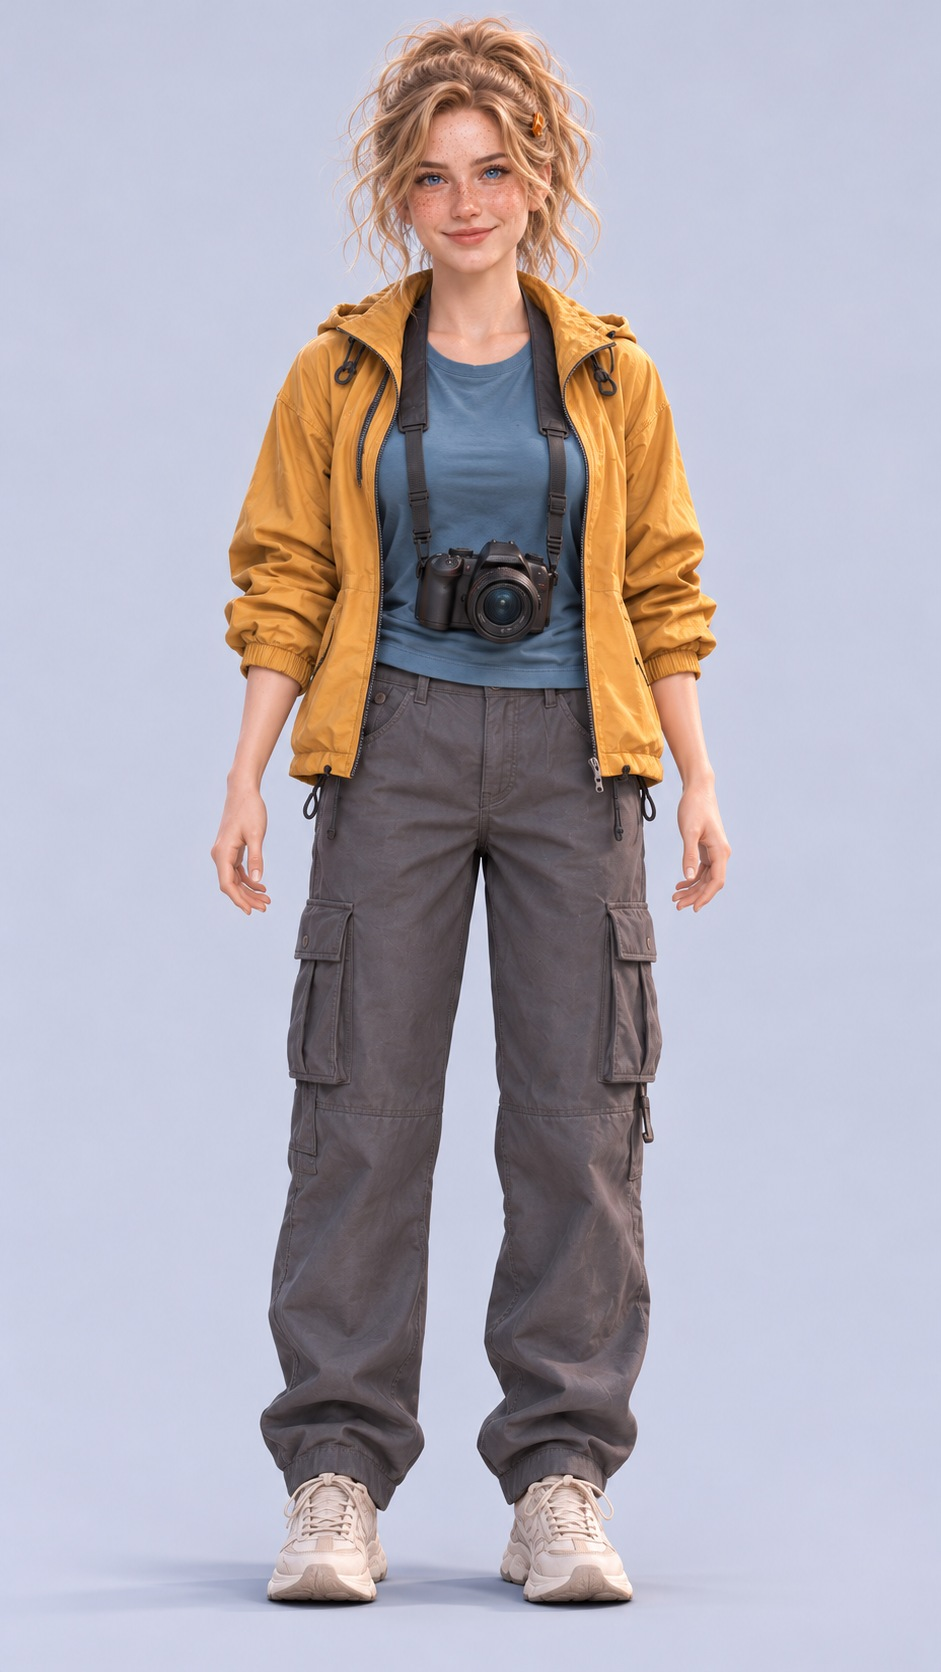
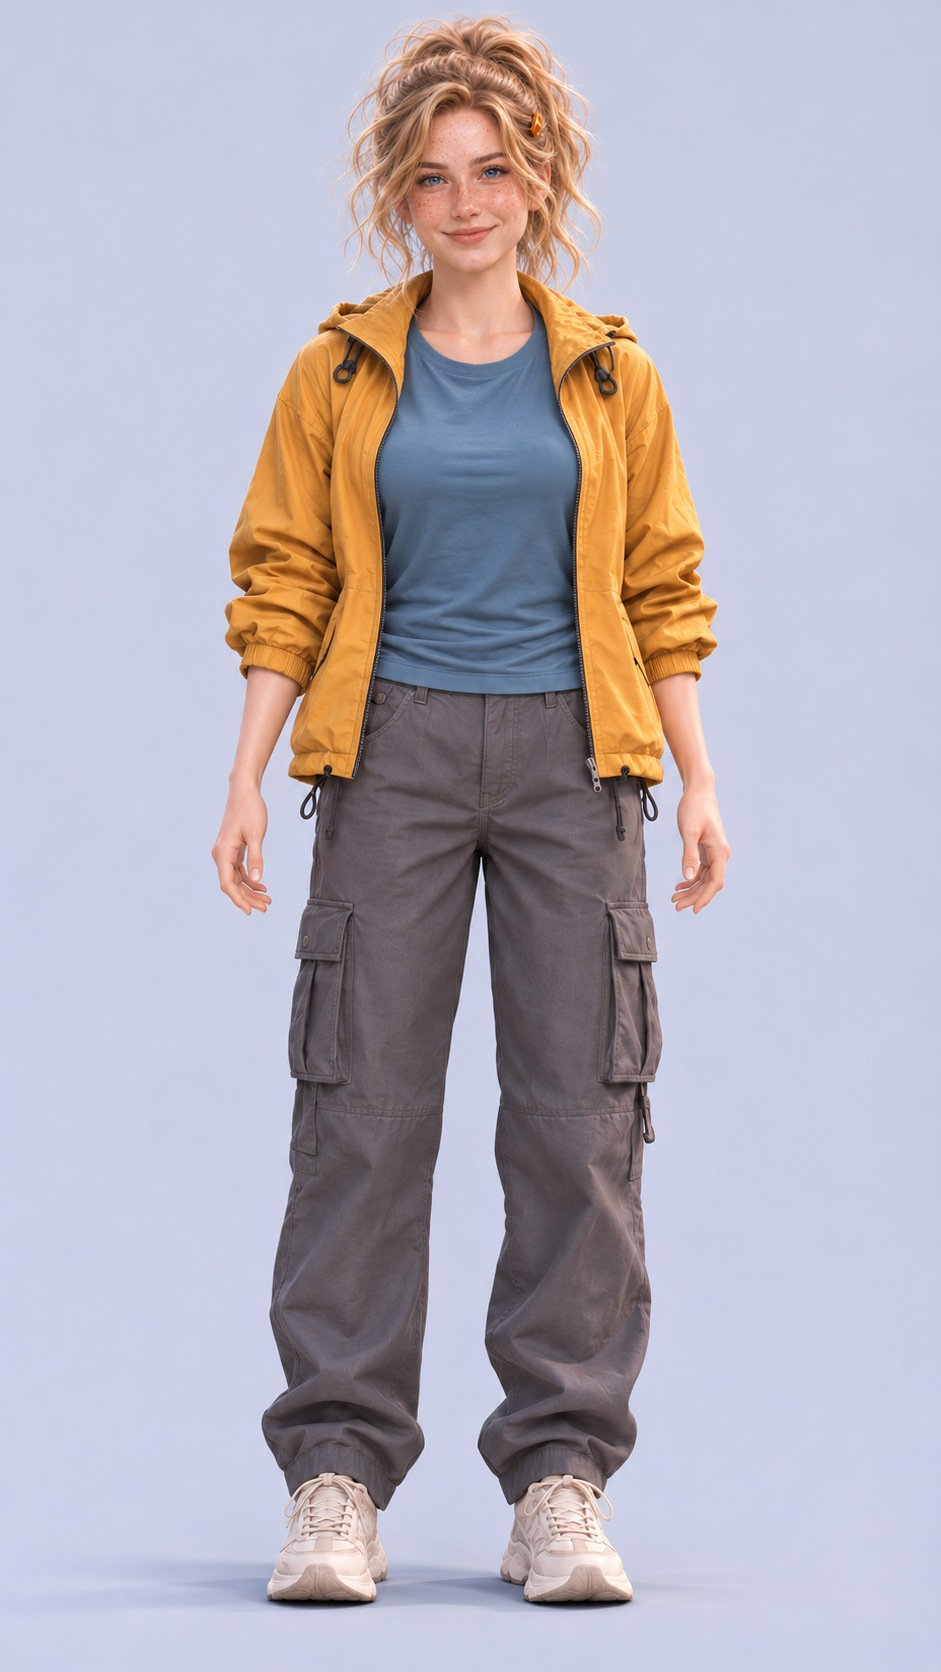
Location plates, Mila master without camera, undersea sets without daylight (smoke-test fixes)

diff --git a/director.py b/director.py
@@ -12,6 +12,7 @@ PACK = (Path(__file__).resolve().parent / 'pack' / 'rian_pack.json').read_text(e
 # 关键片段卡的推荐轮次（资料包 E 节）；K01 是开场，K11 只在她主动时演
 CARDS = {b['id']: b for b in json.loads(PACK)['beats']}
 CARD_DUE = {'K02': 1, 'K03': 2, 'K04': 3, 'K05': 4, 'K06': 5, 'K07': 6, 'K08': 8, 'K09': 9, 'K10': 10, 'K11': 11, 'K12': 12, 'K13': 14}  # K11 吻戏：每集至少一场
+CARD_DUE = json.loads(PACK).get('due') or CARD_DUE  # V3.2：资料包可以自己定每张卡的推荐轮次（三真四假节目流程快，9 轮走完）
 MODEL = os.environ.get('DIRECTOR_MODEL', 'anthropic/claude-sonnet-5.5')
 
 
@@ -463,7 +464,7 @@ def direct(history, state, text, kind, mode, timeout=60, place=None, place_round
         if attempt == 0 and intimate and sp.get('scene_changed') and not re.search('去|走|回|出门|离开|换|到|阳台|车|楼下|外面|浴室|厨房|客厅|卧室|床|家', text or ''):  # V1.8：亲密进行中自己换了场（第 8、12 轮跑去阳台），这条值得多等一次
             first_bad = ['亲密进行中不换场']; msgs = msgs + [{'role': 'assistant', 'content': txt}, {'role': 'user', 'content': '她没有说要换地方：亲密进行中不换场、不打断。scene_changed 改成 false，就在当前地点继续往下演，其余按原来的规则，重新输出完整 JSON。'}]
             continue
-        bad = lint(sp, m, dict(ask_text=text, he_now=(wardrobe or {}).get('he', ''), she_now=(wardrobe or {}).get('she', ''), must_scene=must_scene, must_card=must_card, seen=seen, place_rounds=place_rounds, must_kiss=must_kiss, n=n, prev_opts=(history[-1].get('opts') if history else None), set_now=set_now, lead=lead, stall=stall, her_said=' '.join([h.get('input') or '' for h in history] + [text or '']), items=cont.get('items') or [], left=cont.get('left') or {}, holding=cont.get('holding') or '', looks=list(cont.get('looks') or []), posture=cont.get('posture') or ''))
+        bad = lint(sp, m, dict(ask_text=text, he_now=(wardrobe or {}).get('he', ''), she_now=(wardrobe or {}).get('she', ''), must_scene=must_scene, must_card=must_card, kind=kind, done=list(done), seen=seen, place_rounds=place_rounds, must_kiss=must_kiss, n=n, prev_opts=(history[-1].get('opts') if history else None), set_now=set_now, lead=lead, stall=stall, her_said=' '.join([h.get('input') or '' for h in history] + [text or '']), items=cont.get('items') or [], left=cont.get('left') or {}, holding=cont.get('holding') or '', looks=list(cont.get('looks') or []), posture=cont.get('posture') or ''))
         if attempt == 0: first_bad = bad
         hard = [x for x in bad if x.startswith('【必改】')]
         if attempt == 0 and hard:  # V2.0：意图和状态连续错了比多等 10 秒更伤，这两类打回一次
@@ -477,9 +478,9 @@ def direct(history, state, text, kind, mode, timeout=60, place=None, place_round
             room = lambda t: (re.search('卧室|客厅|厨房|阳台|浴室|书房|车|酒吧|车库|走廊|大堂|露台|屋顶', t) or [''])[0]
             if _sim(k, str(sp.get('location') or '')) >= 0.6 and room(k) == room(str(sp.get('location') or '')): sp['location'] = k; sp['set'] = v; break  # 要是同一种房间（“公寓卧室”和“公寓客厅”相似度也有 0.67）
     settle_ride(sp, cont, set_now); settle_walk(sp, set_now)
-    ensure_empty_shot(sp); ensure_cast(sp); clean_empty_shots(sp); empty_first(sp, set_now); cast_out_of_seg1(sp)
+    ensure_empty_shot(sp); ensure_cast(sp); clean_empty_shots(sp); empty_first(sp, set_now); cast_out_of_seg1(sp); seg1_wide(sp)
     settle_wardrobe(sp, wardrobe, text, set_now, cont.get('posture') or '', cont.get('outfits') or ()); settle_state(sp, cont, wardrobe, text); clean_zh(sp)
-    ctx = dict(ask_text=text, he_now=(wardrobe or {}).get('he', ''), she_now=(wardrobe or {}).get('she', ''), must_scene=must_scene, must_card=must_card, seen=seen, place_rounds=place_rounds, must_kiss=must_kiss, n=n, prev_opts=(history[-1].get('opts') if history else None), set_now=set_now, lead=lead, stall=stall, her_said=' '.join([h.get('input') or '' for h in history] + [text or '']), items=cont.get('items') or [], left=cont.get('left') or {}, holding=cont.get('holding') or '', looks=list(cont.get('looks') or []), posture=cont.get('posture') or '')
+    ctx = dict(ask_text=text, he_now=(wardrobe or {}).get('he', ''), she_now=(wardrobe or {}).get('she', ''), must_scene=must_scene, must_card=must_card, kind=kind, done=list(done), seen=seen, place_rounds=place_rounds, must_kiss=must_kiss, n=n, prev_opts=(history[-1].get('opts') if history else None), set_now=set_now, lead=lead, stall=stall, her_said=' '.join([h.get('input') or '' for h in history] + [text or '']), items=cont.get('items') or [], left=cont.get('left') or {}, holding=cont.get('holding') or '', looks=list(cont.get('looks') or []), posture=cont.get('posture') or '')
     sp['lint_left'] = lint(sp, m, ctx)  # V1.5：修完还剩的问题只记录，不再为选项单独调一次导演层
     sp['lint_first'] = first_bad
     sp['director_attempts'] = attempt + 1
@@ -551,6 +552,13 @@ def lint(sp, mode, ctx=None):
     if ctx.get('must_scene') and not sp.get('scene_changed') and it != 'direction':
         bad.append(f"【必改】这个地点已经演了 {ctx.get('place_rounds')} 轮，她这一句不是明确引导（{it}），这一轮必须换场（scene_changed=true，用动作切到新地点）")
     mc = ctx.get('must_card')
+    got = [str(k).strip().upper() for k in (sp.get('cards_done') or [])]
+    if mc and ctx.get('kind') not in (None, 'free') and mc not in got:  # V3.2（Vicky 11-04：剧情推进慢，要引导到主线）：她点的是选项、到期的卡就要演，可以和她选的事接在一起；原来只在她含糊时才强制，点选项一直不算
+        bad.append(f'【必改】她点的是选项，关键片段 {mc}（{CARDS.get(mc, {}).get("role", "")[:40]}）已经到期：这一轮把它的核心事件演出来（和她选的事接在一起），写进 cards_done')
+    left_cards = [k for k in CARD_DUE if k not in (ctx.get('done') or []) and k not in got]
+    if left_cards and CARD_DUE[left_cards[0]] <= (ctx.get('n') or 0) + 1:  # V3.2：下一轮到期的卡，至少一个选项要通向它
+        k2 = left_cards[0]; lt = ' '.join(str(((sp.get('next') or {}).get(x) or {}).get('leads_to', '')) for x in ('A', 'B'))
+        if k2 not in lt.upper(): bad.append(f'【必改】下一轮该演关键片段 {k2}（{CARDS.get(k2, {}).get("role", "")[:40]}）：两个选项里至少一个通向它，leads_to 写上 {k2}')
     if mc and (it == 'vague' or (it == 'question' and ctx.get('stall', 0) >= 2)) and mc not in [str(k).strip().upper() for k in (sp.get('cards_done') or [])]:
         bad.append(f'她这一句是 {it}，关键片段 {mc} 已经到期：这一轮必须把 {mc} 的核心事件演出来，并写进 cards_done')
     said = (ctx.get('her_said') or '').lower()
@@ -585,6 +593,8 @@ def lint(sp, mode, ctx=None):
     if not str(sp.get('he_move') or '').strip(): bad.append('没写 he_move：他这一轮主动做了什么推进主线（V2.9）')
     waits = [str(b[0])[:24] for b in allb if WAIT_BEAT.search(str(b[0]))] + ([str(sp.get('hold'))[:24]] if WAIT_BEAT.search(str(sp.get('hold') or '')) else [])
     if waits: bad.append(f"【必改】有“等她决定/等她指路”这类让出主动权的拍子（{'；'.join(waits[:2])}）：换成他主动做的一件事或一件新发生的事（V2.9）")
+    cut1 = [str(b[0])[:20] for b in sp.get('seg1', []) if re.search('切到|已站在.{0,6}(套房|天台|吧台|海滩|泳池)', str(b[0]))]  # V3.2：第 1 段在原地，换场只从第 2 段开始（S00395099c 第 2 轮第 1 段中途切到套房，又漂回泳池）
+    if cut1: bad.append(f"【必改】第 1 段里换了地点（{'；'.join(cut1[:2])}）：第 1 段留在原地，换场放到第 2 段第一拍的空镜")
     fill = [str(b[0])[:20] for b in allb if is_filler(b)]  # V3.0（Vicky 11-04：一个动作拖很久、有定格感）：没有台词只有表情的拍子整轮最多一拍
     if len(fill) > 1 and not slow: bad.append(f"【必改】有 {len(fill)} 拍只有表情没有台词和动作（{'；'.join(fill[:3])}）：整轮最多一拍，其余改成一句台词或一个推动剧情的动作（V3.0）")
     stall = [str(b[1])[:40] for b in allb if len(b) > 1 and STALL_LINE.search(str(b[1]))]
@@ -652,6 +662,14 @@ def _drop_clause(text, w):
     parts = re.split(r'(?<=[，；。,;])', text)
     keep = [p for p in parts if w not in p]
     return ''.join(keep).strip('，；,; ')
+
+
+def seg1_wide(sp):
+    """V3.2：第 1 段没有身份参考图（首帧续接），单人近景、特写最容易换脸（S00395099c 第 2、5 轮她的近景变成另一个人），改成双人中近景。"""
+    n = 0
+    for b in sp.get('seg1') or []:
+        if re.search('单人(中近景|近景)|特写', str(b[2])) and not str(b[2]).startswith('插入'): b[2] = re.sub('单人(中近景|近景)|(大)?特写', '双人中近景', str(b[2]), count=1); n += 1
+    if n: sp['seg1_widened'] = n
 
 
 def cast_out_of_seg1(sp):
@@ -1143,6 +1161,9 @@ def settle_wardrobe(sp, prev, asked='', set_now=None, posture='', outfits=()):
     if NUDE_SHE.search(str(end.get('she') or '')): sp['nude_cut'] = end.get('she'); end['she'] = start.get('she') or L.SHE_DEFAULT
     if NUDE_HE.search(str(end.get('he') or '')): sp['nude_cut'] = end.get('he'); end['he'] = start.get('he') or L.HE_DEFAULT
     if end != start and not want and not WEAR_ACT.search(text) and not TIME_SKIP.search(text): sp['wardrobe_reverted'] = end; end = dict(start)
+    if not want and end.get('she') != start.get('she') and not (start.get('she') and end.get('she') and L.LOOK_OUTER in str(start.get('she')) and L.LOOK_OUTER not in str(end.get('she'))):  # V3.2：她的衣服只在她自己要换时才换（S00395099c 第 5 轮男主一句“Go change”就给她换成深蓝长裙，脸也跟着变了）；脱掉最外面一层除外
+        sp['she_wear_reverted'] = end.get('she'); end['she'] = start.get('she')
+        if not end.get('she'): end.pop('she', None)
     if end.get('she'): end['she'] = end['she'].replace('奶油色和黑色条纹针织上衣', HER_TOP) if HER_TOP else end['she']  # V2.2：写死款式（只写“条纹针织上衣”，关键帧画成带领短袖 POLO，之后一路带下去）
     if not want and redress(sp, start, asked, set_now, posture): end = {}
     settle_change(sp, start, end)
@@ -1196,7 +1217,7 @@ def _shape(sp, mode):
 
 
 def _call(msgs, timeout):
-    body = {'model': MODEL, 'max_tokens': 5200,  # V2.9：多了 news、he_move，选项更长，3800 会截断
+    body = {'model': MODEL, 'max_tokens': 6400,  # V2.9：多了 news、he_move，选项更长，3800 会截断；11-04 三真四假 5200 截断过一次，加到 6400
             'reasoning': {'effort': 'low'}, 'temperature': 0.7, 'messages': msgs}
     body['provider'] = {'order': ['Anthropic'], 'allow_fallbacks': True}  # V1.5b 提速：直连 Anthropic 约快一倍（同一份输入 11.6 秒 vs AWS 22 秒）
     req = U.Request('https://openrouter.ai/api/v1/chat/completions', data=json.dumps(body).encode(),

diff --git a/pack/build_pack.py b/pack/build_pack.py
@@ -1,13 +1,14 @@
-"""人鱼王子的假新娘｜第三视角实时版资料包：从飞书「角色样例」5⃣ Rian Thalys 内容包（角色设定、场景设定、互动设定、前五集剧情线）整理。
+"""（11-04 冒烟：东廊写“清晨、白色大理石”时第 1 段末尾漂成日光大厅 → 海下地点都写明没有日光）
+人鱼王子的假新娘｜第三视角实时版资料包：从飞书「角色样例」5⃣ Rian Thalys 内容包（角色设定、场景设定、互动设定、前五集剧情线）整理。
 开场已定稿（外国人版 v9，制作/新版互动剧集-v32/rto_openw/opening.mp4，71.9 秒）：停在斯凯抬头看雷恩的近景，雷恩刚当着维萨说“She is with me. My future bride.”。
 K 卡按前五集事件顺序排，只作她没方向时的兜底，不是轨道。"""
 import json
 from pathlib import Path
 SET = {
- 'L1': '潮城王宫的东廊：白色大理石柱廊，蓝金色旗帜，远处一扇挂蓝色帘子的高门，东墙上暖琥珀色烛台，看不见的海景窗把蓝绿色水波光纹打在人和打磨光亮的地面上，空气里一点薄雾，室内，海下的清晨',
+ 'L1': '潮城王宫的东廊：白色大理石柱廊，蓝金色旗帜，远处一扇挂蓝色帘子的高门，东墙上暖琥珀色烛台，看不见的海景窗把蓝绿色水波光纹打在人和打磨光亮的地面上，空气里一点薄雾；室内，海下没有日光、没有窗户射进来的阳光，只有烛光和水光，整体是偏暗的蓝色调和暖色烛光',
  'L2': '潮门：海下洞穴里的白色大理石水上台阶和贝壳形拱门，挂着蓝色帘子；一束苍白的晨光从高处的洞口照在上层台阶上，其余是冷蓝的洞穴阴影，水面把晃动的光纹映到大理石上，栏杆上几盏暖色小灯，水面有薄雾',
- 'L3': '王宫会客厅：白金色石柱，一整面拱形海景窗（窗外是蓝色的海和游过的鱼群），一张蓝色天鹅绒长沙发，一张白色大理石小圆桌，暖色烛台和窗外的蓝光',
- 'L4': '临水套房：左侧干燥区一张白纱幔大床和一张浅色沙发，中间一道镂空贝壳纹屏风，右侧一池清澈的海水（池边一张躺椅），拱窗外是海下的夜色或晨光，暖色小灯',
+ 'L3': '王宫会客厅：白金色石柱，一整面拱形海景窗（窗外是蓝色的海和游过的鱼群），一张蓝色天鹅绒长沙发，一张白色大理石小圆桌，暖色烛台和窗外的蓝光；海下没有日光，整体偏暗的蓝色调',
+ 'L4': '临水套房：左侧干燥区一张白纱幔大床和一张浅色沙发，中间一道镂空贝壳纹屏风，右侧一池清澈的海水（池边一张躺椅），拱窗外是海下幽暗的蓝色，暖色小灯；海下没有日光',
  'L5': '王宫外的礁海与海蚀洞：清澈的海水里斜射下来的阳光，珊瑚、礁石和游鱼，远处一个透光的海蚀洞口，洞口外望得见盐点港的岸',
  'L6': '盐点港的黄昏夜市：海边小镇的石板街，一串暖黄灯泡挂在摊位上方，烤鱼和热汤的摊子，木长凳和小桌，远处海面上落日余晖',
 }

diff --git a/masters_build.py b/masters_build.py
@@ -19,7 +19,8 @@ crop(REF / 'sea-rian--front.png', M / 'he-head.jpg', 0, .5, .1, .9)
 crop(R / 'SKYW6-frame.png', M / 'her-head.jpg', .48, .76, .18, .82)
 crop(R / 'SKYW6-frame.png', M / 'she-full.jpg', 0, .47, 0, .36)
 for k, src in {'he-face': REF / 'sea-rian--front.png', 'he-outfit': REF / 'lib-RIA-master.png', 'her-sheet': R / 'SKYW6-frame.png', 'staging': R / 'RT_staging-frame.png',
-               'open-key': R / 'WV23v-frame.png', 'vessa': R / 'RT_vessa-frame.png', 'mila': R / 'RT_mila-frame.png'}.items():
+               'open-key': R / 'WV23v-frame.png', 'vessa': R / 'RT_vessa-frame.png', 'mila': R / 'RT_mila2-frame.png',
+               'plate-gallery': R / 'RT_plate_gallery-frame.png', 'plate-gate': R / 'RT_plate_gate-frame.png', 'plate-lounge': R / 'RT_plate_lounge-frame.png', 'plate-suite': R / 'RT_plate_suite-frame.png'}.items():
     Image.open(src).convert('RGB').save(M / f'{k}.jpg', quality=93)
 subprocess.run([FF, '-y', '-v', 'error', '-sseof', '-0.15', '-i', str(OPEN), '-frames:v', '1', '-q:v', '2', str(M / 'idle-key.jpg')], check=True)
 shutil.copy(M / 'idle-key.jpg', M / 'open-last.jpg')
@@ -33,3 +34,6 @@ c = W1Client(); U = json.loads(F.read_text()) if F.exists() else {}
 for key, f in {'face': 'he-face.jpg', 'face_head': 'he-head.jpg', 'outfit': 'he-outfit.jpg', 'her': 'her-sheet.jpg', 'her_head': 'her-head.jpg', 'staging': 'staging.jpg',
                'open_key': 'open-key.jpg', 'vessa': 'vessa.jpg', 'mila': 'mila.jpg', 'look_she_on': 'she-full.jpg', 'idle_key': 'idle-key.jpg'}.items():
     U[key] = c.upload(str(M / f))['url']; F.write_text(json.dumps(U, indent=1)); print(key, U[key], flush=True)
+# 地点空景（V3.0 plates）：这一轮地点对上关键词就当地点参考，防止第 1 段背景漂移（11-04 冒烟第 1 段东廊漂成海水和亮白大厅）；米拉母版不带相机（相机被收走，归还时再作为道具出现）
+PL = {'东廊|长廊|走廊|回廊': 'plate-gallery.jpg', '潮门|水上台阶|台阶|洞穴': 'plate-gate.jpg', '会客厅|客厅|沙发': 'plate-lounge.jpg', '套房|卧室|床|水池': 'plate-suite.jpg'}
+U['plates'] = {k: c.upload(str(M / f))['url'] for k, f in PL.items()}; F.write_text(json.dumps(U, indent=1, ensure_ascii=False)); print('plates', U['plates'])
